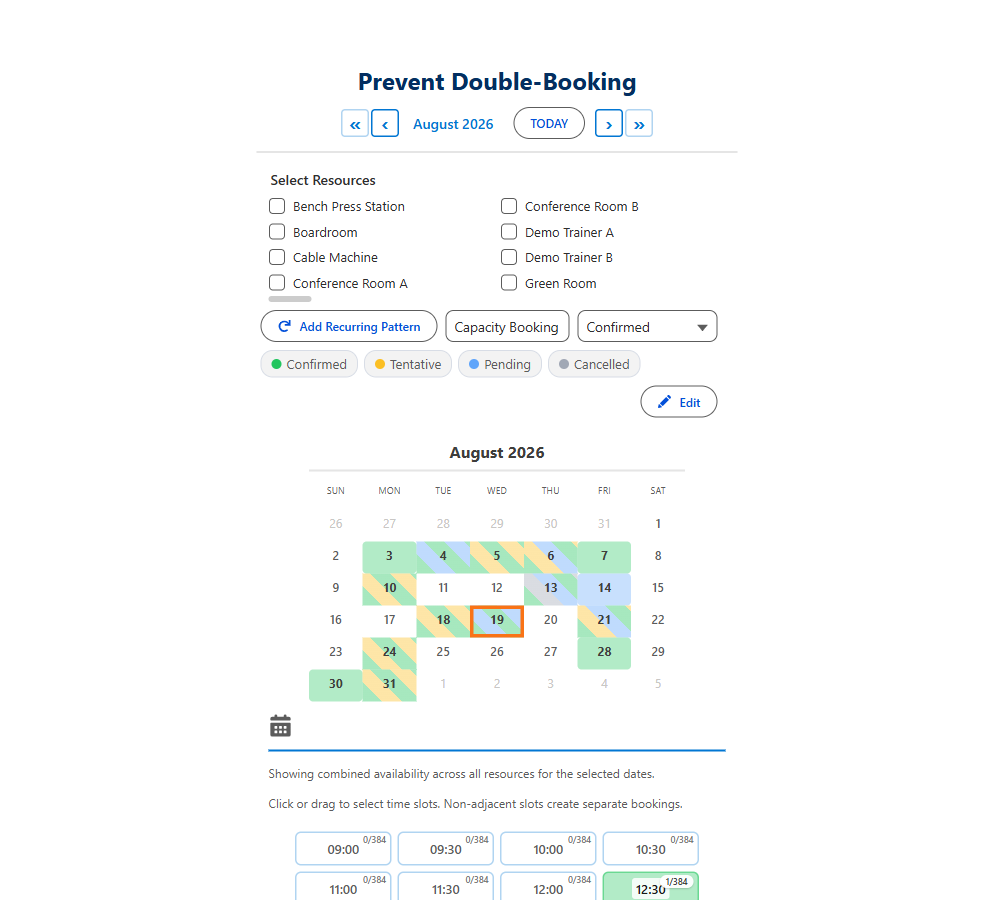
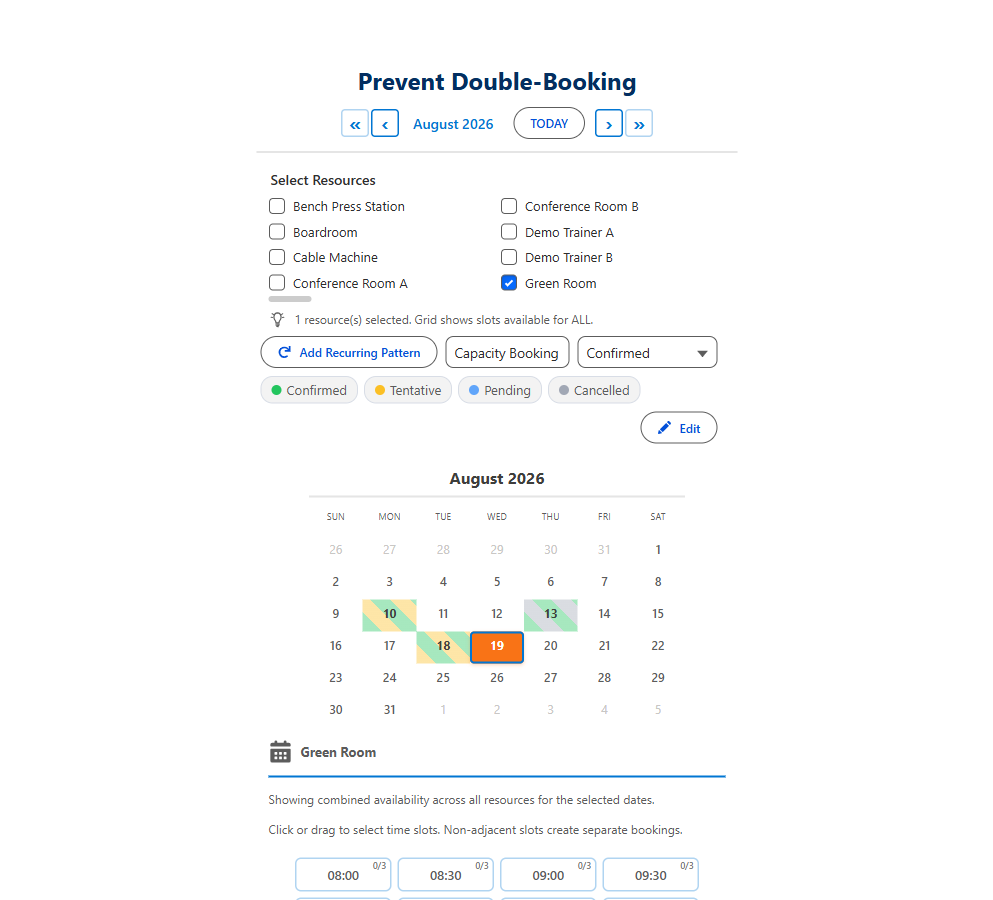
feat(site): shot refinements + vs-Lightning card rewrite (accurate framing)
Shot fixes:
  * salesforce-calendar-time-slots.png — Interview Scheduling now single-month
  * salesforce-calendar-capacity.png — Prevent Double-Booking now has 1
    resource (Green Room) pre-checked, so capacity badges read "0/3"
    cleanly instead of the aggregated "0/384" gibberish

vs-Lightning-Scheduler card rewrite (user feedback: prior framing implied
MDP CAN'T do statuses/lifecycle/territories, which is wrong — MDP is
highly configurable and can do most of it):

  * "Choose Lightning Scheduler when" → "Only Lightning Scheduler does"
    Card now names ONLY the things LS does uniquely: automatic
    skill/qualification matching (algorithmic resource selection),
    customer-facing appointment portal (supported LS component), native
    Field Service integration, pre-built ServiceAppointment lifecycle.
  * "Choose MultiDatePick when" → "Where MultiDatePick pulls ahead"
    Emphasises MDP's real differentiators: multi-date selection, writes
    into your existing objects, sits in Screen Flows, wizard-configurable
    (statuses, resource pickers, capacity, edit mode, filters — all
    admin-configurable, no code).
  * Added a paragraph explicitly acknowledging MDP CAN be configured to
    do most of what LS does — the genuine LS lead is customer-facing
    self-service booking with automatic skill matching. Everything else
    is configure-vs-build, and configuring is MDP's whole point.

diff --git a/salesforce-calendar-vs-lightning-scheduler.html b/salesforce-calendar-vs-lightning-scheduler.html
@@ -148,26 +148,29 @@
                 <p>The longer version, side by side:</p>
                 <div style="display:grid;grid-template-columns:1fr 1fr;gap:20px;margin:20px 0 28px;">
                     <div style="border:1px solid #d8dde6;border-radius:8px;padding:20px;background:#fafbfc;">
-                        <h3 style="margin:0 0 12px;color:#032e61;font-size:1.15rem;">Lightning Scheduler fits</h3>
+                        <h3 style="margin:0 0 12px;color:#032e61;font-size:1.15rem;">Only Lightning Scheduler does</h3>
                         <ul style="margin:0;padding-left:20px;line-height:1.7;">
-                            <li>Branches, advisors, clinicians, service territories</li>
-                            <li>Skill/qualification-based matching drives who gets booked</li>
-                            <li>You need a full appointment lifecycle (reschedule, cancel, no-show)</li>
-                            <li>Salesforce-supported product with licensing already in place</li>
+                            <li><strong>Automatic skill or qualification matching</strong> — a customer picks a slot and the algorithm selects the resource</li>
+                            <li><strong>Customer-facing appointment portal</strong> as a supported Experience Cloud component</li>
+                            <li><strong>Native Field Service integration</strong> with Service Territory, Work Type, and dispatch</li>
+                            <li>Pre-built ServiceAppointment lifecycle if you already work in that data model</li>
                         </ul>
                     </div>
                     <div style="border:1px solid #d8dde6;border-radius:8px;padding:20px;background:#fef8f3;">
-                        <h3 style="margin:0 0 12px;color:#032e61;font-size:1.15rem;">MultiDatePick fits</h3>
+                        <h3 style="margin:0 0 12px;color:#032e61;font-size:1.15rem;">Where MultiDatePick pulls ahead</h3>
                         <ul style="margin:0;padding-left:20px;line-height:1.7;">
-                            <li>Capturing dates, not booking appointments (availability, shifts, closures, milestones)</li>
-                            <li>Someone needs to pick <em>several</em> dates in one interaction</li>
-                            <li>Records must land in your existing objects and reports</li>
-                            <li>The calendar sits inside a Screen Flow you already wrote</li>
-                            <li>Configured this afternoon, not scoped as a project</li>
+                            <li><strong>Pick <em>several</em> dates in one interaction</strong> — a real multi-date calendar, not one slot at a time</li>
+                            <li><strong>Writes into your existing objects</strong> — availability, shifts, closures, milestones, whatever you already report on</li>
+                            <li><strong>Sits inside a Screen Flow</strong> you already wrote — no separate scheduling app</li>
+                            <li><strong>Configurable from a wizard</strong> — status field, resource picker, capacity, edit mode, statuses, colors, filters — no code, no project scope</li>
+                            <li>Any scheduling model you can describe with objects and fields, you can build here</li>
                         </ul>
                     </div>
                 </div>
                 <div class="sc-note">
+                    <strong>Most of what Lightning Scheduler does, MultiDatePick can also be configured to do.</strong> Statuses, edit mode, resource filters, capacity, territory-style scoping — all admin-configurable, no code. Where Lightning Scheduler genuinely leads is <em>customer-facing self-service appointment booking with automatic skill matching</em>. Everything else is a build-vs-configure trade-off, and MultiDatePick's whole point is that you configure it in an afternoon.
+                </div>
+                <div class="sc-note" style="margin-top:12px;">
                     <strong>They are not mutually exclusive.</strong> Plenty of orgs run Lightning Scheduler for customer-facing appointments and MultiDatePick for everything else that has a date on it. Different objects, different jobs, no conflict.
                 </div>
                 <!-- PLACEHOLDER IMAGE: swap for a wide 1600x900 comparison capture -->
